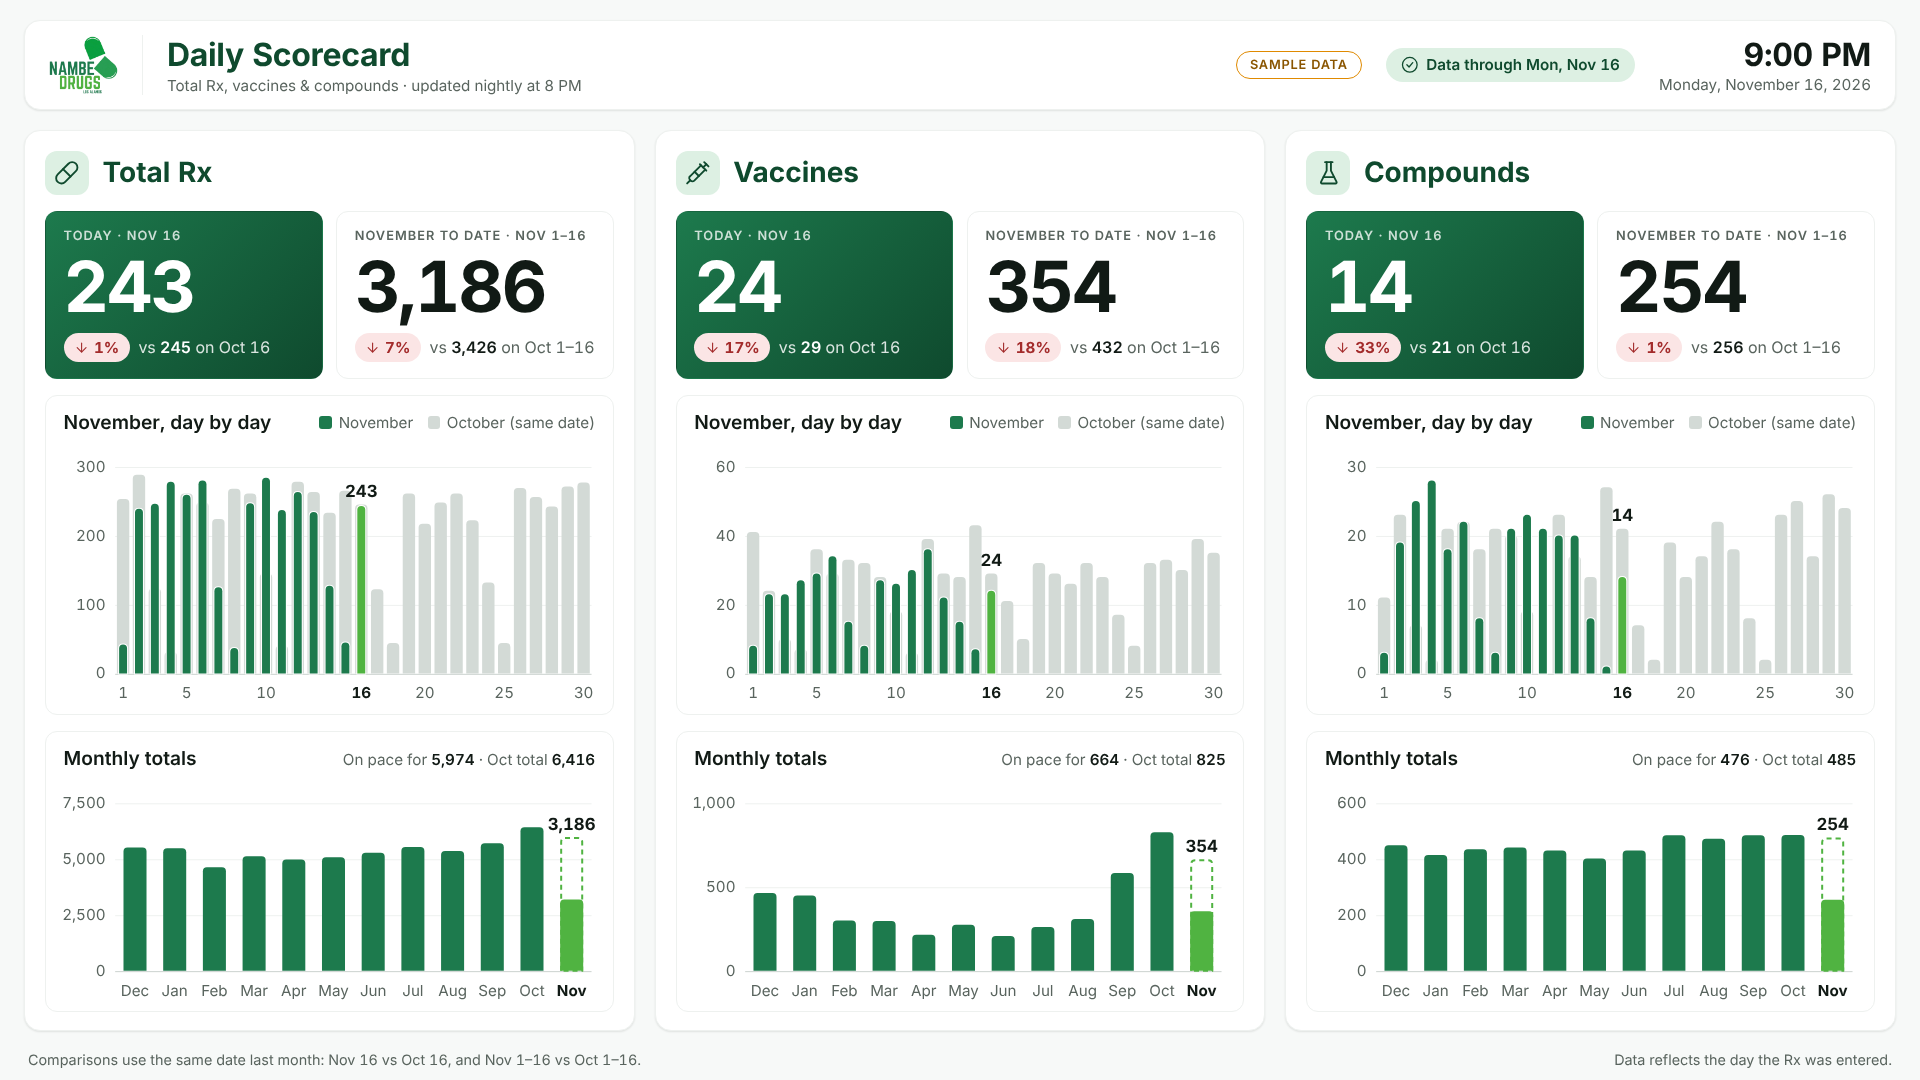
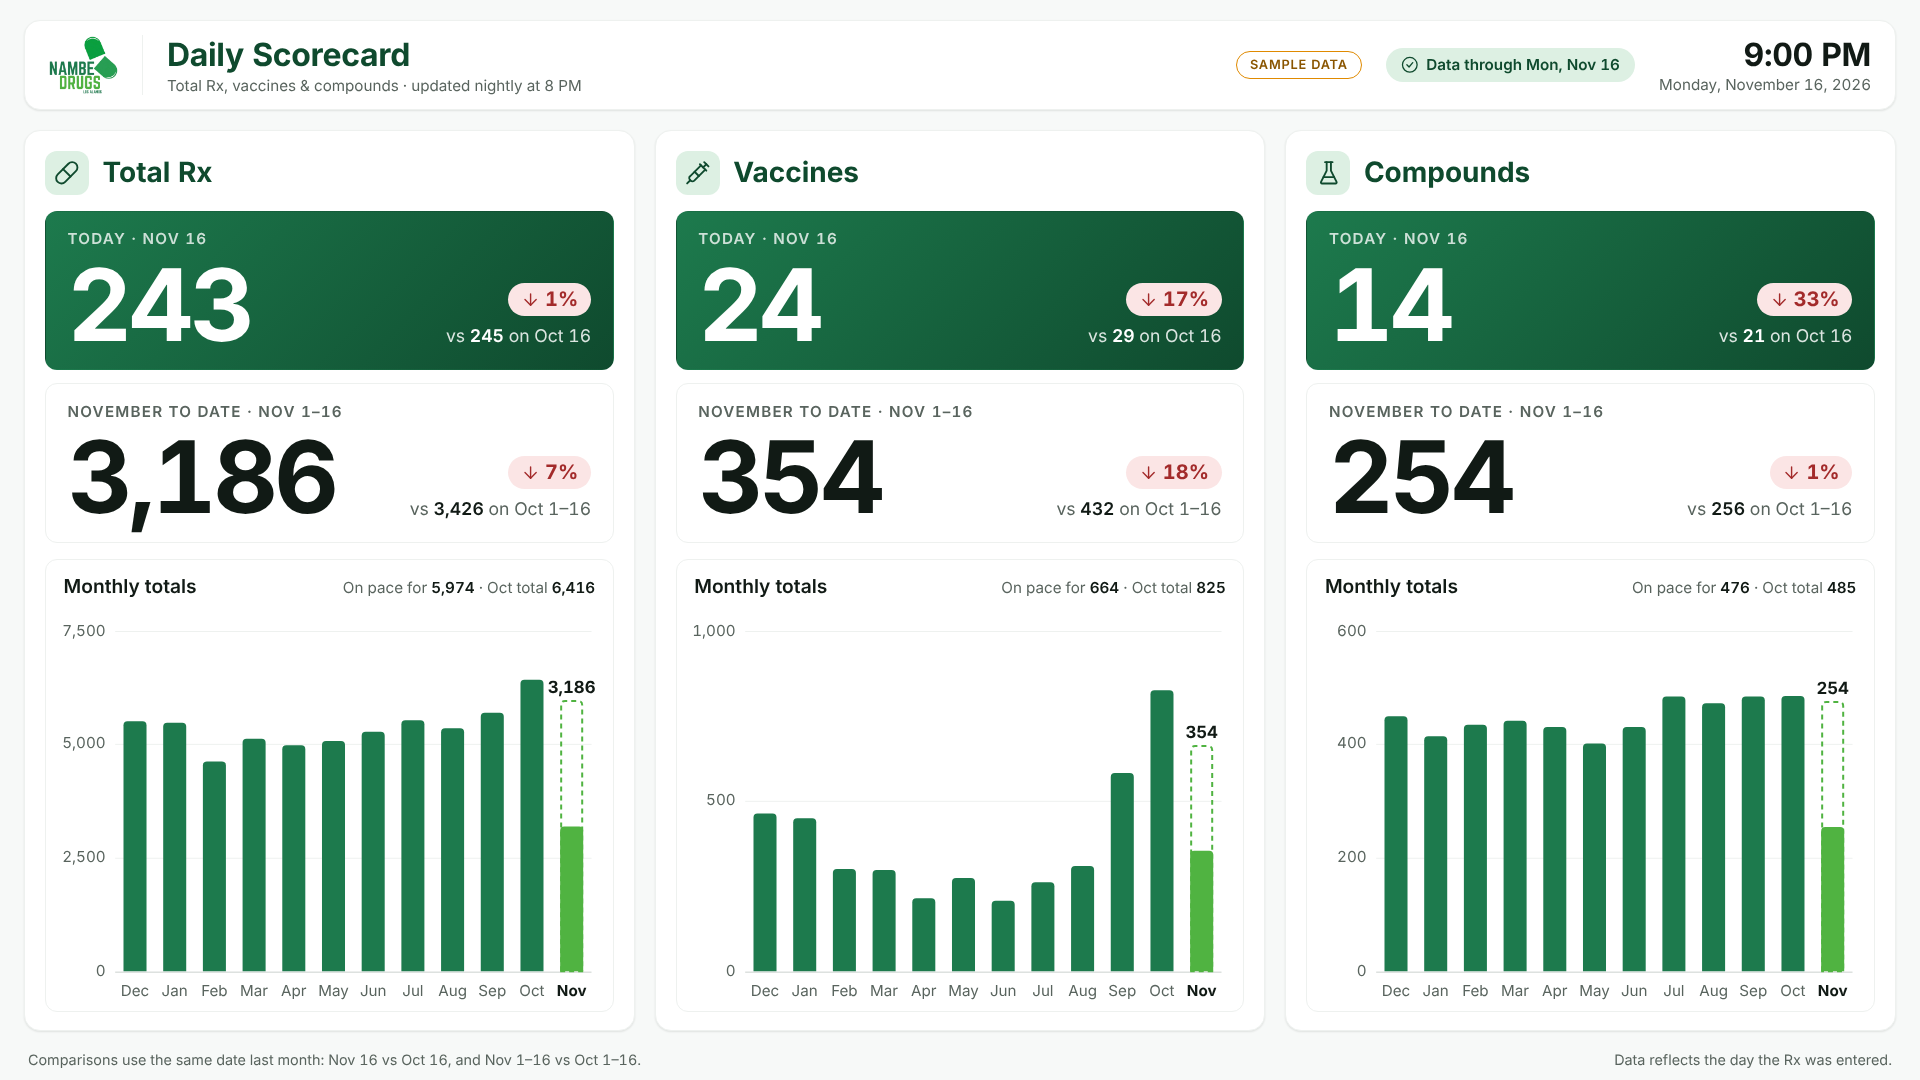
Remove the day-by-day chart; stack KPI tiles with larger numbers
Each column is now Today, Month to date, then Monthly totals, which
gets the freed height. Numbers and change pills are bigger for the TV.

Claude-Session: https://claude.ai/code/session_01Azq791TareJatiYuWrZTGm

Changed region(s): [[0.0312, 0.1833, 0.6562, 0.8861], [0.6875, 0.1833, 1.0, 0.8556], [0.0312, 0.825, 0.0625, 0.8556]]

diff --git a/assets/app.js b/assets/app.js
@@ -16,7 +16,7 @@
     { key: "compounds", name: "Compounds", unit: "compounds made", icon: "flask" }
   ];
 
-  var COLORS = { bar: "#1D7A4D", accent: "#50B341", ghost: "#D3DAD6", surface: "#FFFFFF" };
+  var COLORS = { bar: "#1D7A4D", accent: "#50B341", surface: "#FFFFFF" };
 
   var ICONS = {
     syringe: '<path d="m18 2 4 4"/><path d="m17 7 3-3"/><path d="M19 9 8.7 19.3c-1 1-2.5 1-3.4 0l-.6-.6c-1-1-1-2.5 0-3.4L15 5"/><path d="m9 11 4 4"/><path d="m5 19-3 3"/><path d="m14 4 6 6"/>',
@@ -126,16 +126,7 @@
       mtdPrev: sumRange(metric, p.y, p.m, 1, pd)
     };
 
-    // Daily series for this month and last month (by day of month).
-    var dimCur = daysIn(y, m), dimPrev = daysIn(p.y, p.m);
-    out.daily = [];
-    for (var i = 1; i <= dimCur; i++) {
-      out.daily.push({
-        day: i,
-        cur: i <= d ? val(metric, y, m, i) : null,
-        prev: i <= dimPrev ? val(metric, p.y, p.m, i) : null
-      });
-    }
+    var dimCur = daysIn(y, m);
 
     // Last 12 months of totals, current month = month to date.
     out.monthly = [];
@@ -183,22 +174,16 @@
         '<div class="kpis">' +
           '<div class="kpi is-primary">' +
             '<div class="overline">' + dayLabel(c.y, c.m, c.d) + "</div>" +
-            '<div class="value">' + fmtNum(c.day) + "</div>" +
+            '<div class="kpi-row"><div class="value">' + fmtNum(c.day) + "</div>" +
             '<div class="compare">' + deltaPill(c.day, c.dayPrev) +
-              compareText(c.dayPrev, fmtShort(c.p.y, c.p.m, c.pd)) + "</div>" +
+              compareText(c.dayPrev, fmtShort(c.p.y, c.p.m, c.pd)) + "</div></div>" +
           "</div>" +
           '<div class="kpi">' +
             '<div class="overline">' + mName + " to date · " + MON[c.m] + " 1–" + c.d + "</div>" +
-            '<div class="value">' + fmtNum(c.mtd) + "</div>" +
+            '<div class="kpi-row"><div class="value">' + fmtNum(c.mtd) + "</div>" +
             '<div class="compare">' + deltaPill(c.mtd, c.mtdPrev) +
-              compareText(c.mtdPrev, MON[c.p.m] + " 1–" + c.pd) + "</div>" +
+              compareText(c.mtdPrev, MON[c.p.m] + " 1–" + c.pd) + "</div></div>" +
           "</div>" +
-        "</div>" +
-        '<div class="chart-card daily">' +
-          '<div class="chart-head"><h3>' + mName + ", day by day</h3>" +
-            '<div class="legend"><span><i style="background:' + COLORS.bar + '"></i>' + mName + "</span>" +
-            '<span><i style="background:' + COLORS.ghost + '"></i>' + pName + " (same date)</span></div></div>" +
-          '<div class="chart" data-chart="daily" data-metric="' + mt.key + '"></div>' +
         "</div>" +
         '<div class="chart-card monthly">' +
           '<div class="chart-head"><h3>Monthly totals</h3>' +
@@ -294,58 +279,6 @@
     return { svg: svg, W: W, H: H, m: m, pw: pw, ph: ph, y: y, R: R };
   }
 
-  function drawDaily(host, c) {
-    var data = c.daily, n = data.length;
-    var maxV = Math.max.apply(null, data.map(function (p) { return Math.max(p.cur || 0, p.prev || 0); }));
-    var f = frame(host, maxV, 4), slot = f.pw / n, R = f.R;
-    var ghostW = Math.max(4, slot * 0.78), curW = Math.max(3, slot * 0.5);
-    var base = f.y(0);
-
-    data.forEach(function (p, i) {
-      var cx = f.m.l + slot * i + slot / 2;
-      if (p.prev != null && p.prev > 0) {
-        f.svg.appendChild(el("path", { d: barPath(cx - ghostW / 2, f.y(p.prev), ghostW, base - f.y(p.prev), 4), fill: COLORS.ghost }));
-      }
-      if (p.cur != null && p.cur > 0) {
-        var isLatest = p.day === c.d;
-        f.svg.appendChild(el("path", {
-          d: barPath(cx - curW / 2, f.y(p.cur), curW, base - f.y(p.cur), 4),
-          fill: isLatest ? COLORS.accent : COLORS.bar,
-          stroke: COLORS.surface, "stroke-width": 2, "paint-order": "stroke"
-        }));
-      }
-      // hover target + native tooltip
-      var hit = el("rect", { x: f.m.l + slot * i, y: f.m.t, width: slot, height: f.ph, fill: "transparent" });
-      hit.appendChild(el("title", {}, fmtShort(c.y, c.m, p.day) + ": " + fmtNum(p.cur) + "  ·  " +
-        fmtShort(c.p.y, c.p.m, p.day) + ": " + fmtNum(p.prev)));
-      f.svg.appendChild(hit);
-    });
-
-    // Value label on the latest day.
-    var latest = data[c.d - 1];
-    if (latest && latest.cur != null) {
-      var lx = f.m.l + slot * (c.d - 1) + slot / 2;
-      var top = Math.min(f.y(latest.cur), latest.prev != null ? f.y(latest.prev) : Infinity);
-      f.svg.appendChild(el("text", { x: lx, y: top - 0.45 * R, "text-anchor": "middle", "class": "val" }, fmtNum(latest.cur)));
-    }
-
-    // Day-of-month ticks: 1, every 5th, last day, and the latest day (bold).
-    var show = {};
-    show[1] = true; for (var k = 5; k <= n; k += 5) show[k] = true; show[n] = true;
-    Object.keys(show).forEach(function (k) { if (Math.abs(+k - c.d) < 2) delete show[k]; });
-    if (n - 30 < 2 && show[n] && show[30] && n !== 30) delete show[30];
-    show[c.d] = "strong";
-    Object.keys(show).forEach(function (k) {
-      f.svg.appendChild(el("text", {
-        x: f.m.l + slot * (+k - 1) + slot / 2, y: f.H - 0.35 * R, "text-anchor": "middle",
-        "class": show[k] === "strong" ? "tick strong" : "tick"
-      }, k));
-    });
-
-    f.svg.setAttribute("aria-label", MONTHS[c.m] + " daily counts compared with " + MONTHS[c.p.m]);
-    host.replaceChildren(f.svg);
-  }
-
   function drawMonthly(host, c) {
     var data = c.monthly, n = data.length;
     var maxV = Math.max(c.pace || 0, Math.max.apply(null, data.map(function (p) { return p.total || 0; })));
@@ -396,8 +329,7 @@
     document.querySelectorAll("[data-chart]").forEach(function (host) {
       var c = computed[host.getAttribute("data-metric")];
       if (!c) return;
-      if (host.getAttribute("data-chart") === "daily") drawDaily(host, c);
-      else drawMonthly(host, c);
+      drawMonthly(host, c);
     });
   }
 

diff --git a/assets/styles.css b/assets/styles.css
@@ -137,27 +137,31 @@ body.has-pointer { cursor: default; }
 }
 
 /* KPI tiles */
-.kpis { display: grid; grid-template-columns: 1fr 1fr; gap: 0.85rem; }
+.kpis { display: grid; grid-template-columns: 1fr; gap: 0.85rem; }
 .kpi {
   border: 1px solid var(--ink-100);
   border-radius: var(--radius-card);
-  padding: 0.95rem 1.1rem 1rem;
+  padding: 1.1rem 1.35rem 1.2rem;
   background: var(--surface);
 }
 .kpi.is-primary { background: linear-gradient(135deg, var(--forest), var(--pine)); border-color: transparent; color: #fff; }
 .overline {
-  font-size: 0.8rem; line-height: 1.1rem; font-weight: 600;
+  font-size: 0.95rem; line-height: 1.3rem; font-weight: 600;
   letter-spacing: 0.08em; text-transform: uppercase;
   color: var(--ink-600);
 }
 .kpi.is-primary .overline { color: rgba(255,255,255,.78); }
+.kpi-row {
+  display: flex; align-items: flex-end; justify-content: space-between; gap: 1rem;
+  margin-top: 0.6rem;
+}
 .kpi .value {
-  font-size: 4.4rem; line-height: 1; font-weight: 700; letter-spacing: -0.03em;
-  margin: 0.5rem 0 0.65rem;
+  font-size: 6.25rem; line-height: 0.9; font-weight: 700; letter-spacing: -0.035em;
 }
 .kpi .compare {
-  display: flex; align-items: center; gap: 0.35rem 0.55rem; flex-wrap: wrap;
-  font-size: 1rem; line-height: 1.35rem; color: var(--ink-600);
+  display: flex; flex-direction: column; align-items: flex-end; gap: 0.5rem;
+  text-align: right; padding-bottom: 0.15rem;
+  font-size: 1.1rem; line-height: 1.45rem; color: var(--ink-600);
 }
 .kpi.is-primary .compare { color: rgba(255,255,255,.85); }
 .kpi .compare b { color: var(--ink-900); font-weight: 600; }
@@ -165,10 +169,10 @@ body.has-pointer { cursor: default; }
 
 .delta {
   display: inline-flex; align-items: center; gap: 0.3rem;
-  border-radius: 999px; padding: 0.22rem 0.65rem;
-  font-size: 0.95rem; font-weight: 700;
+  border-radius: 999px; padding: 0.3rem 0.8rem;
+  font-size: 1.25rem; font-weight: 700;
 }
-.delta svg { width: 0.95rem; height: 0.95rem; }
+.delta svg { width: 1.2rem; height: 1.2rem; }
 .delta.up   { background: var(--success-bg); color: #13703D; }
 .delta.down { background: var(--error-bg);   color: #A32B2B; }
 .delta.flat { background: var(--ink-100);    color: var(--ink-800); }
@@ -181,7 +185,6 @@ body.has-pointer { cursor: default; }
   border-radius: var(--radius-card);
   padding: 0.9rem 1.1rem 0.6rem;
 }
-.chart-card.daily { flex-grow: 1.15; }
 .chart-head {
   display: flex; align-items: baseline; justify-content: space-between; gap: 1rem;
   margin-bottom: 0.35rem;
@@ -231,7 +234,9 @@ body.has-pointer { cursor: default; }
   .clock .time { font-size: 1.25rem; }
   .grid { grid-template-columns: 1fr; }
   .panel { padding: 16px; }
-  .kpi .value { font-size: 2.75rem; }
+  .kpi .value { font-size: 3.25rem; }
+  .kpi .compare { font-size: 0.95rem; }
+  .delta { font-size: 1rem; }
   .chart-card { flex: none; }
   .chart { flex: none; height: 220px; }
   .chart-head { flex-wrap: wrap; }

diff --git a/README.md b/README.md
@@ -10,9 +10,8 @@ For each of **Total Rx**, **Vaccines** and **Compounds**:
 
 | Tile / chart | What it shows | Compared with |
 |---|---|---|
-| **Today** (green tile) | Count for the latest day in the data | The same date last month (Nov 16 vs Oct 16) |
+| **Today** (green tile, top) | Count for the latest day in the data | The same date last month (Nov 16 vs Oct 16) |
 | **Month to date** | Total from the 1st through the latest day | The same days last month (Nov 1–16 vs Oct 1–16) |
-| **Day by day** | This month's daily bars (green), with last month's same dates as gray bars behind them. The latest day is lime. | |
 | **Monthly totals** | The last 12 months. The current month shows the total so far (lime) and a dashed outline for where it's on pace to finish. | |
 
 Counts are by the day each Rx was entered.
